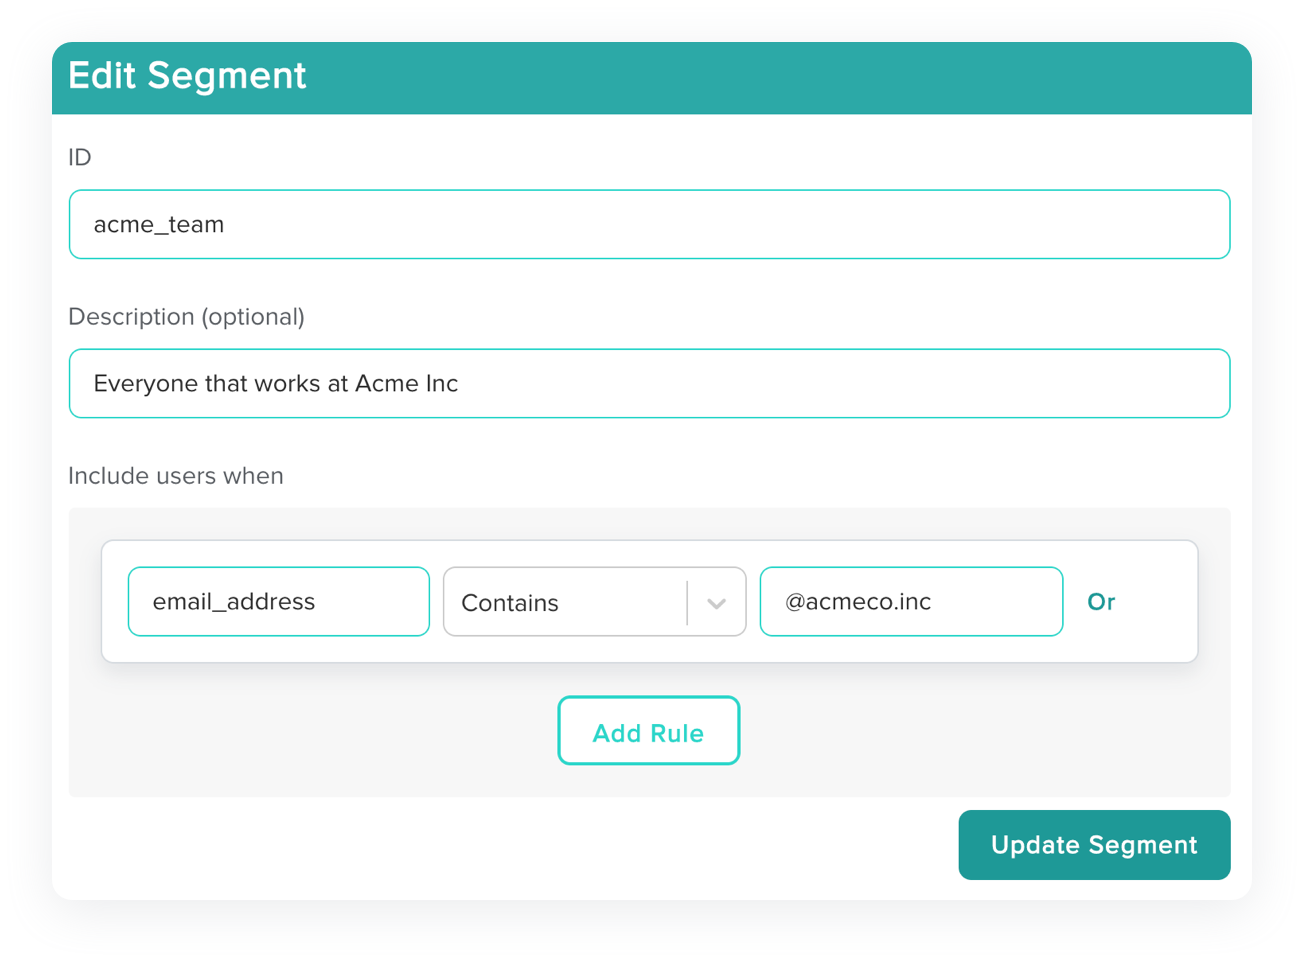
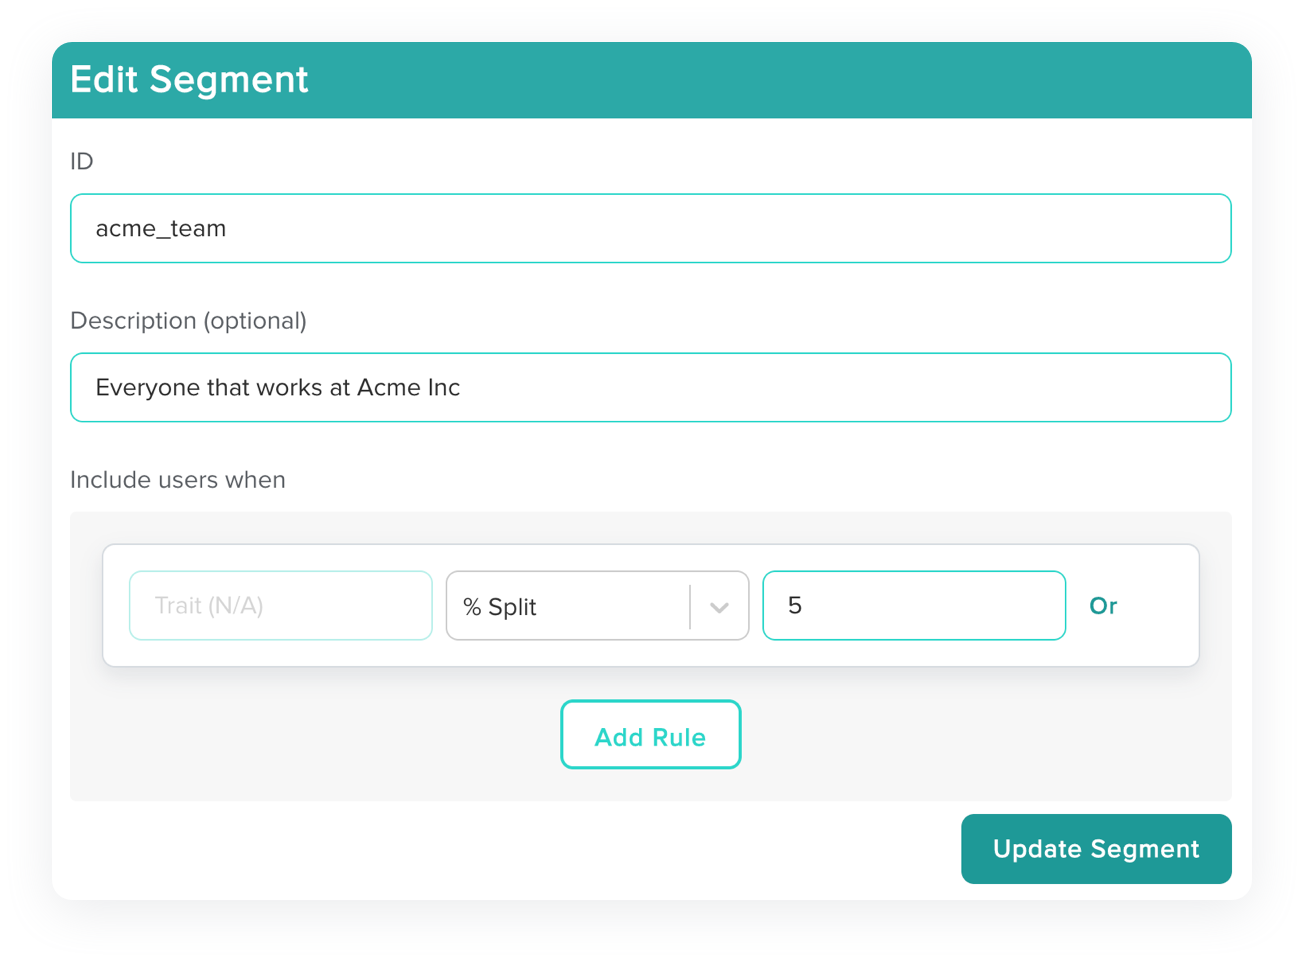
update copy

diff --git a/pages/index.js b/pages/index.js
@@ -159,19 +159,24 @@ const HomePage = class extends React.Component {
                       <div className="container">
                           <div className="flex-row mt-5 mb-5">
                               <div className="col-md-5">
-                                  <h3><span className="text--green">1.</span> Create a new Feature Flag and Feature
-                                      Branch</h3>
-                                  <p>You've been tasked with building out a new feature for your product: showing a chat
-                                      widget in your app and on your website for customers to get real-time support. Two
-                                      tasks:
-                                  </p>
+                                  <h3><span className="text--green">1.</span> Start on a new Feature
+                                      Branch
+                                  </h3>
+                                  <ol>
+                                      <li>
+                                          Create a feature branch in git
+                                      </li>
+                                      <li>
+                                          Create a corresponding Feature Flag in Bullet Train
+                                      </li>
+                                  </ol>
                               </div>
                               <div className="col-md-6 offset-md-1">
                                   <img
-                                      alt="Create a new Feature"
-                                      srcSet="/static/images/workflow/workflow-1.png 1x, /static/images/workflow/workflow-1@2x.png 2x"
-                                      src="/static/images/workflow/workflow-1.png"
-                                      className="img-fluid"
+                                    alt="Create a new Feature"
+                                    srcSet="/static/images/workflow/workflow-1.png 1x, /static/images/workflow/workflow-1@2x.png 2x"
+                                    src="/static/images/workflow/workflow-1.png"
+                                    className="img-fluid"
                                   />
                               </div>
                           </div>
@@ -179,64 +184,41 @@ const HomePage = class extends React.Component {
                           <div className="flex-row mt-5">
                               <div className="col-md-6">
                                   <img
-                                      alt="Deploy the feature"
-                                      srcSet="/static/images/workflow/workflow-2.png 1x, /static/images/workflow/workflow-2@2x.png 2x"
-                                      src="/static/images/workflow/workflow-2.png"
-                                      className="img-fluid mb-5 mb-sm-0"
+                                    alt="Deploy the feature"
+                                    srcSet="/static/images/workflow/workflow-2.png 1x, /static/images/workflow/workflow-2@2x.png 2x"
+                                    src="/static/images/workflow/workflow-2.png"
+                                    className="img-fluid mb-sm-0"
                                   />
                               </div>
                               <div className="col-md-5 offset-md-1">
                                   <h3><span className="text--green">2.</span> Deploy the feature behind the feature flag
                                   </h3>
-                                  <p>Once you've tested your code locally, place it behind a feature flag and deploy
-                                      your code straight to production.</p>
+                                  <p>Write your code, place it behind a feature flag and deploy it straight to production. Don't worry! It's hidden for everyone.
+                                  </p>
                               </div>
                           </div>
 
-                          <div className="mt-5 mb-5">
-                              <div className="offset-md-3 col-md-6">
-                                  <h3 className="text-center">
-                                      <span className="text--green">3.</span> Enable the feature for your own account
+                          <div className="flex-row mt-5 mb-5">
+                              <div className="col-md-4">
+                                  <h3><span className="text--green">3.</span> Enable the feature for your own account
+                                      Branch
                                   </h3>
-                                  <p className="text-center">Your code is now live, but the chat widget is hidden to
-                                      everybody. You can now test the widget using your own account. Select your own
-                                      user within Bullet Train and override the flag for your account.
+                                  <p>You can now test the widget using your own account. Select your own user within Bullet Train and override the flag for your account.
                                   </p>
+                                  <p>The widget will now show up for your own account. It's still hidden for everybody else.</p>
                               </div>
-                              <div className="d-flex justify-content-center">
+                              <div className="col-md-8 pr-0">
                                   <img
                                       alt="Enable the feature"
                                       srcSet="/static/images/workflow/workflow-3.png 1x, /static/images/workflow/workflow-3@2x.png 2x"
                                       src="/static/images/workflow/workflow-3.png"
-                                      className="img-fluid"
-                                  />
-                              </div>
-                              <p className="text-center">The widget will now show up for your own account.
-                                  It's still hidden for everybody else.</p>
-                              <div className="d-flex justify-content-center">
-                                  <img
-                                      alt="Enable the feature"
-                                      srcSet="/static/images/workflow/workflow-3.2.png 1x, /static/images/workflow/workflow-3.2@2x.png 2x"
-                                      src="/static/images/workflow/workflow-3.2.png"
-                                      className="img-fluid"
+                                      className="img-fluid img__large"
                                   />
                               </div>
                           </div>
 
                           <div className="flex-row mt-5 mb-5">
                               <div className="col-md-5">
-                                  <h3><span className="text--green">4.</span> Bring in the rest of your team</h3>
-                                  <p>We can now create a Segment that includes all your company team members, so they
-                                      can test out the new widget and make sure all the integration points work nicely.
-                                      Now we can override that flag for this segment of users.</p>
-                                  <img
-                                      alt="Bring in the rest of your team"
-                                      srcSet="/static/images/workflow/workflow-4.1.png 1x, /static/images/workflow/workflow-4.1@2x.png 2x"
-                                      src="/static/images/workflow/workflow-4.1.png"
-                                      className="img-fluid mt-5 mb-5 mb-sm-0"
-                                  />
-                              </div>
-                              <div className="col-md-6 offset-md-1">
                                   <img
                                       alt="Create a new Feature"
                                       srcSet="/static/images/workflow/workflow-4.2.png 1x, /static/images/workflow/workflow-4.2@2x.png 2x"
@@ -244,41 +226,39 @@ const HomePage = class extends React.Component {
                                       className="img-fluid"
                                   />
                               </div>
-                          </div>
-
-                          <div className="row mt-5 pt-5 mb-5">
-                              <div className="col-md-4">
-                                  <h3><span className="text--green">5.</span> Stage the rollout of feature to your
-                                      entire userbase</h3>
-                              </div>
-                              <div className="col-md-4">
-                                  <p>Once we're happy that everything is good to go, we have two options. We can either
-                                      flick the switch on the flag, enabling it instantly throughout the app for all
-                                      your users, or we can do a staged rollout. Lets do a staged rollout, so that we
-                                      can be sure that there are no unexpected issues when deploying the feature to
-                                      everyone.
-                                  </p>
-                              </div>
-                              <div className="col-md-4">
-                                  <p>We will update the segment, removing the emailAddress filter and replacing it with
-                                      a % Split. Once this is Segment is updated, 5% of our user base will see the chat
-                                      widget, and 95% won't. If we're happy that we aren't seeing any increase in error
-                                      rates within the app, we can either up that percentage figure or deploy the
-                                      feature entirely.
-                                  </p>
+                              <div className="col-md-6 offset-md-1">
+                                  <h3><span className="text--green">4.</span> Bring in the rest of your team</h3>
+                                  <p>Create a Segment that includes all your company team members.</p>
+                                  <p>Now we can override that flag for this segment of users. They can now test out the new widget and make sure all the integration points work nicely.</p>
+                                  <img
+                                      alt="Bring in the rest of your team"
+                                      srcSet="/static/images/workflow/workflow-4.1.png 1x, /static/images/workflow/workflow-4.1@2x.png 2x"
+                                      src="/static/images/workflow/workflow-4.1.png"
+                                      className="img-fluid mt-5 mb-5 mb-sm-0"
+                                  />
                               </div>
                           </div>
 
-                          <div className="d-flex justify-content-center">
-                              <img
-                                  alt="Enable the feature"
-                                  srcSet="/static/images/workflow/workflow-5.png 1x, /static/images/workflow/workflow-5@2x.png 2x"
-                                  src="/static/images/workflow/workflow-5.png"
-                                  className="img-fluid"
-                              />
+                          <div className="flex-row mt-5 mb-5">
+                              <div className="col-md-5">
+                                  <h3><span className="text--green">5.</span> Gradually release the feature!
+                                      Branch
+                                  </h3>
+                                  <p>Lets do a percentage rollout so that we can be sure that there are no unexpected issues when deploying the feature to everyone.</p>
+
+                                      <p>Modify the Segment, replacing the emailAddress filter with a % Split. 5% of our users will now see the chat widget and 95% won't.</p>
+                              </div>
+                              <div className="col-md-6 offset-md-1">
+                                  <img
+                                      alt="Enable the feature"
+                                      srcSet="/static/images/workflow/workflow-5.png 1x, /static/images/workflow/workflow-5@2x.png 2x"
+                                      src="/static/images/workflow/workflow-5.png"
+                                      className="img-fluid"
+                                  />
+                              </div>
                           </div>
 
-                          <div className="mt-5 mb-5 pt-5 pb-5">
+                          <div className="mt-5 mb-5 pb-5">
                               <div className="offset-md-3 col-md-6">
                                   <h3 className="text-center">
                                       <span className="text--green">6.</span> Finish Up

diff --git a/styles/project/_images.scss b/styles/project/_images.scss
@@ -2,4 +2,7 @@
     &__shadow {
         box-shadow: 0 5px 27px 0 rgba(148,155,165,0.20);
     }
+    &__large {
+        width: 1200px;
+    }
 }

diff --git a/styles/project/_lists.scss b/styles/project/_lists.scss
@@ -22,3 +22,7 @@
         }
     }
 }
+
+ol {
+    padding-left: 20px;
+}
